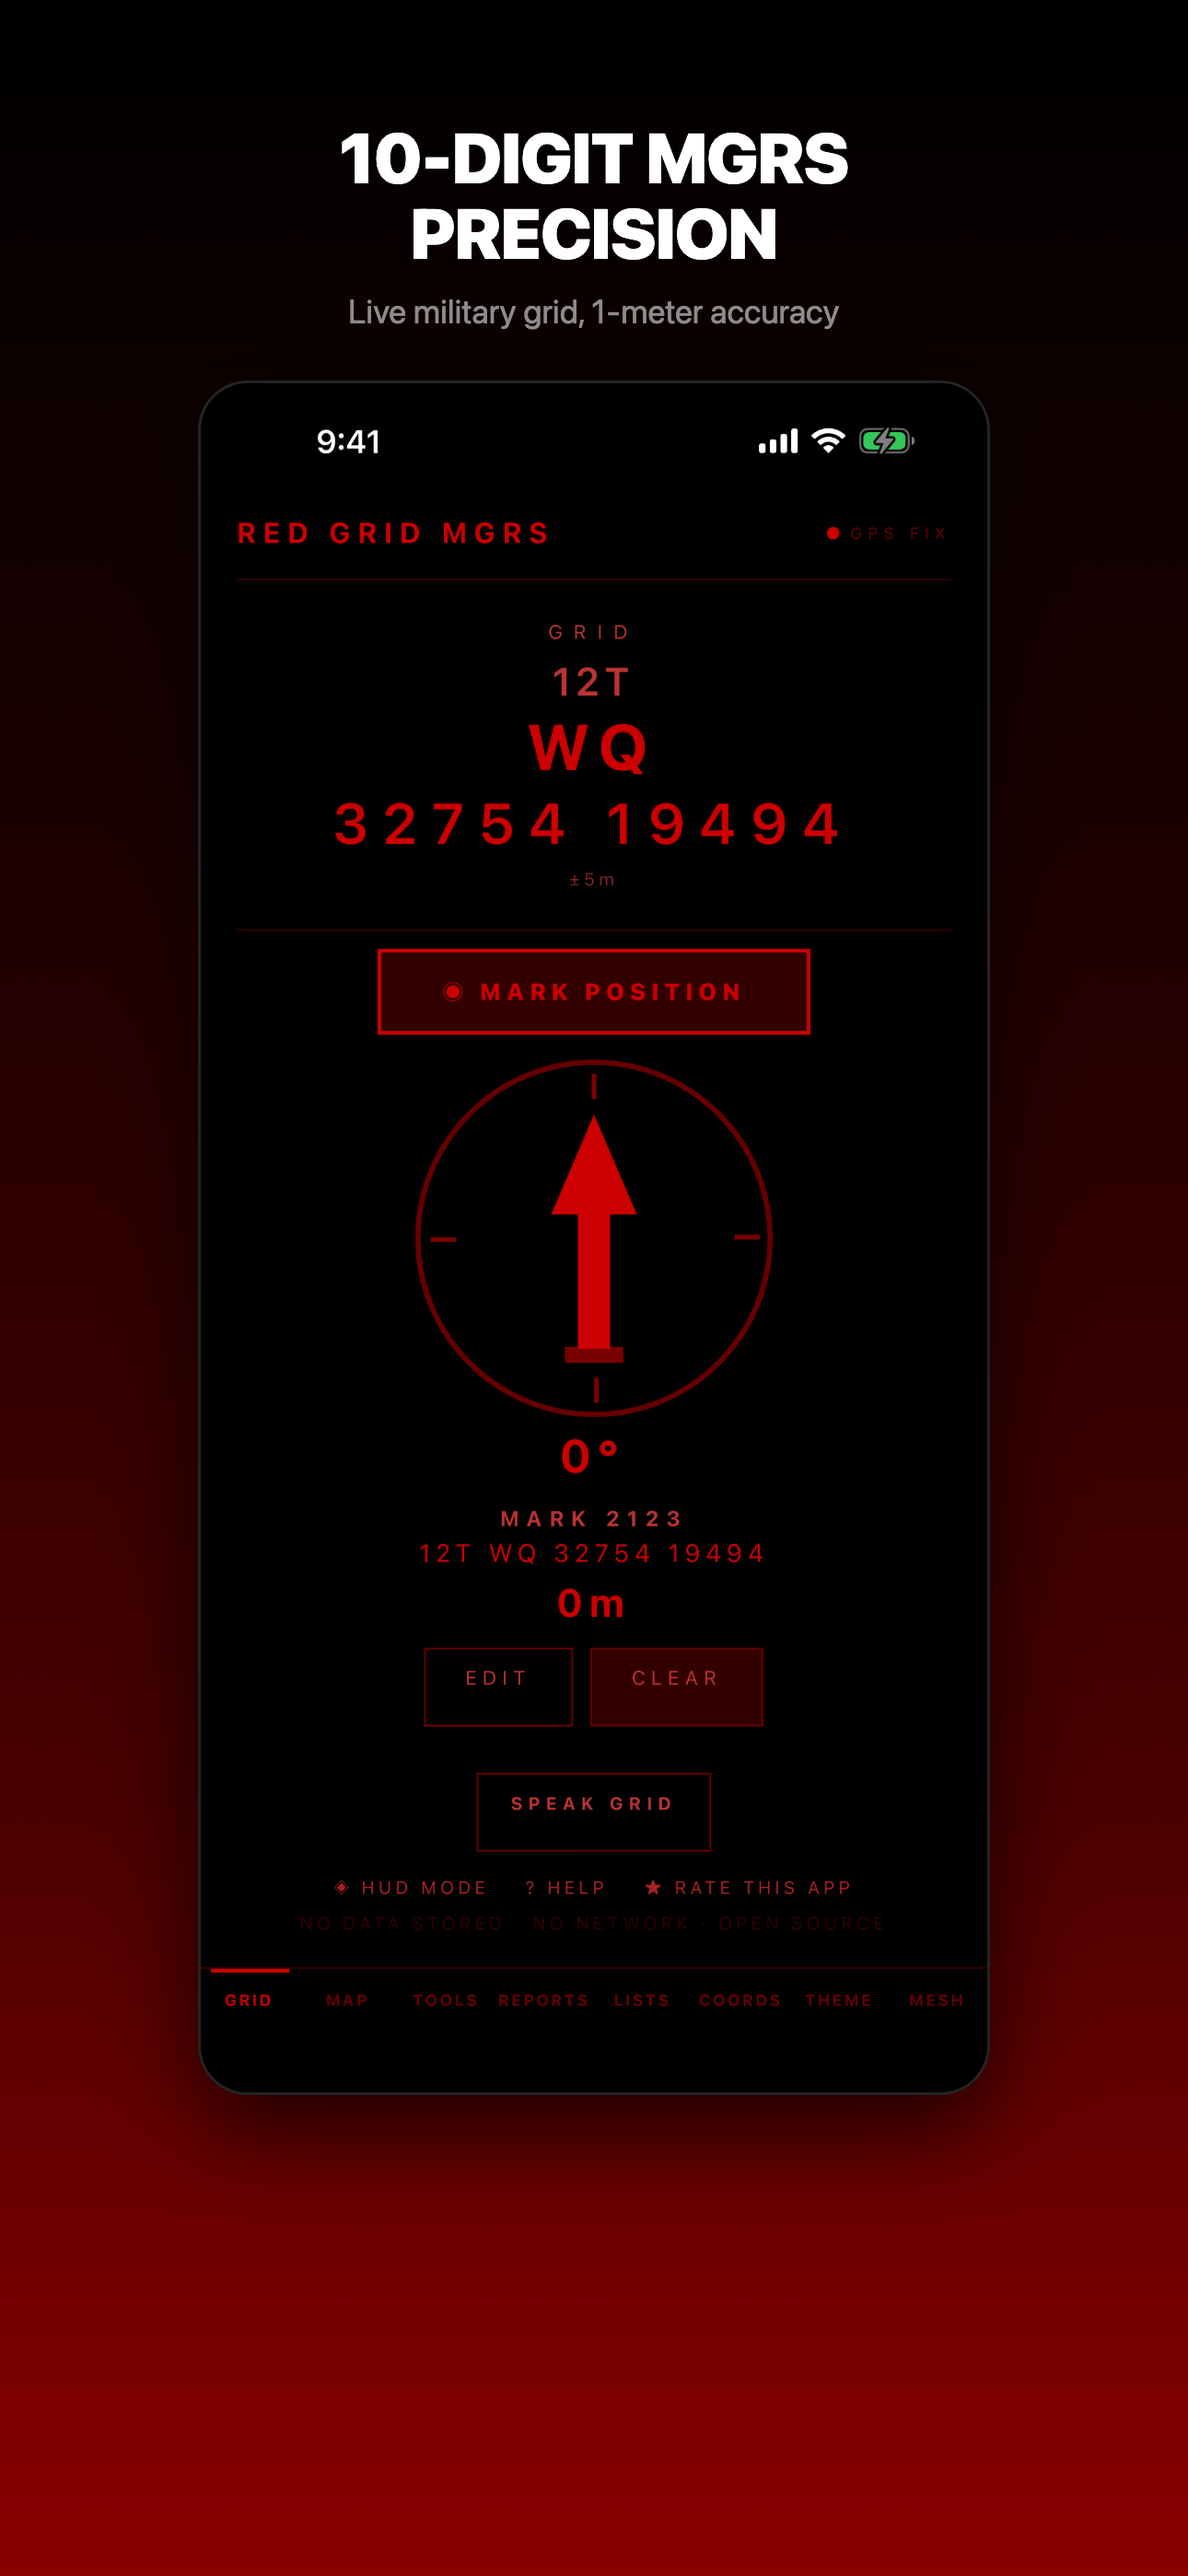
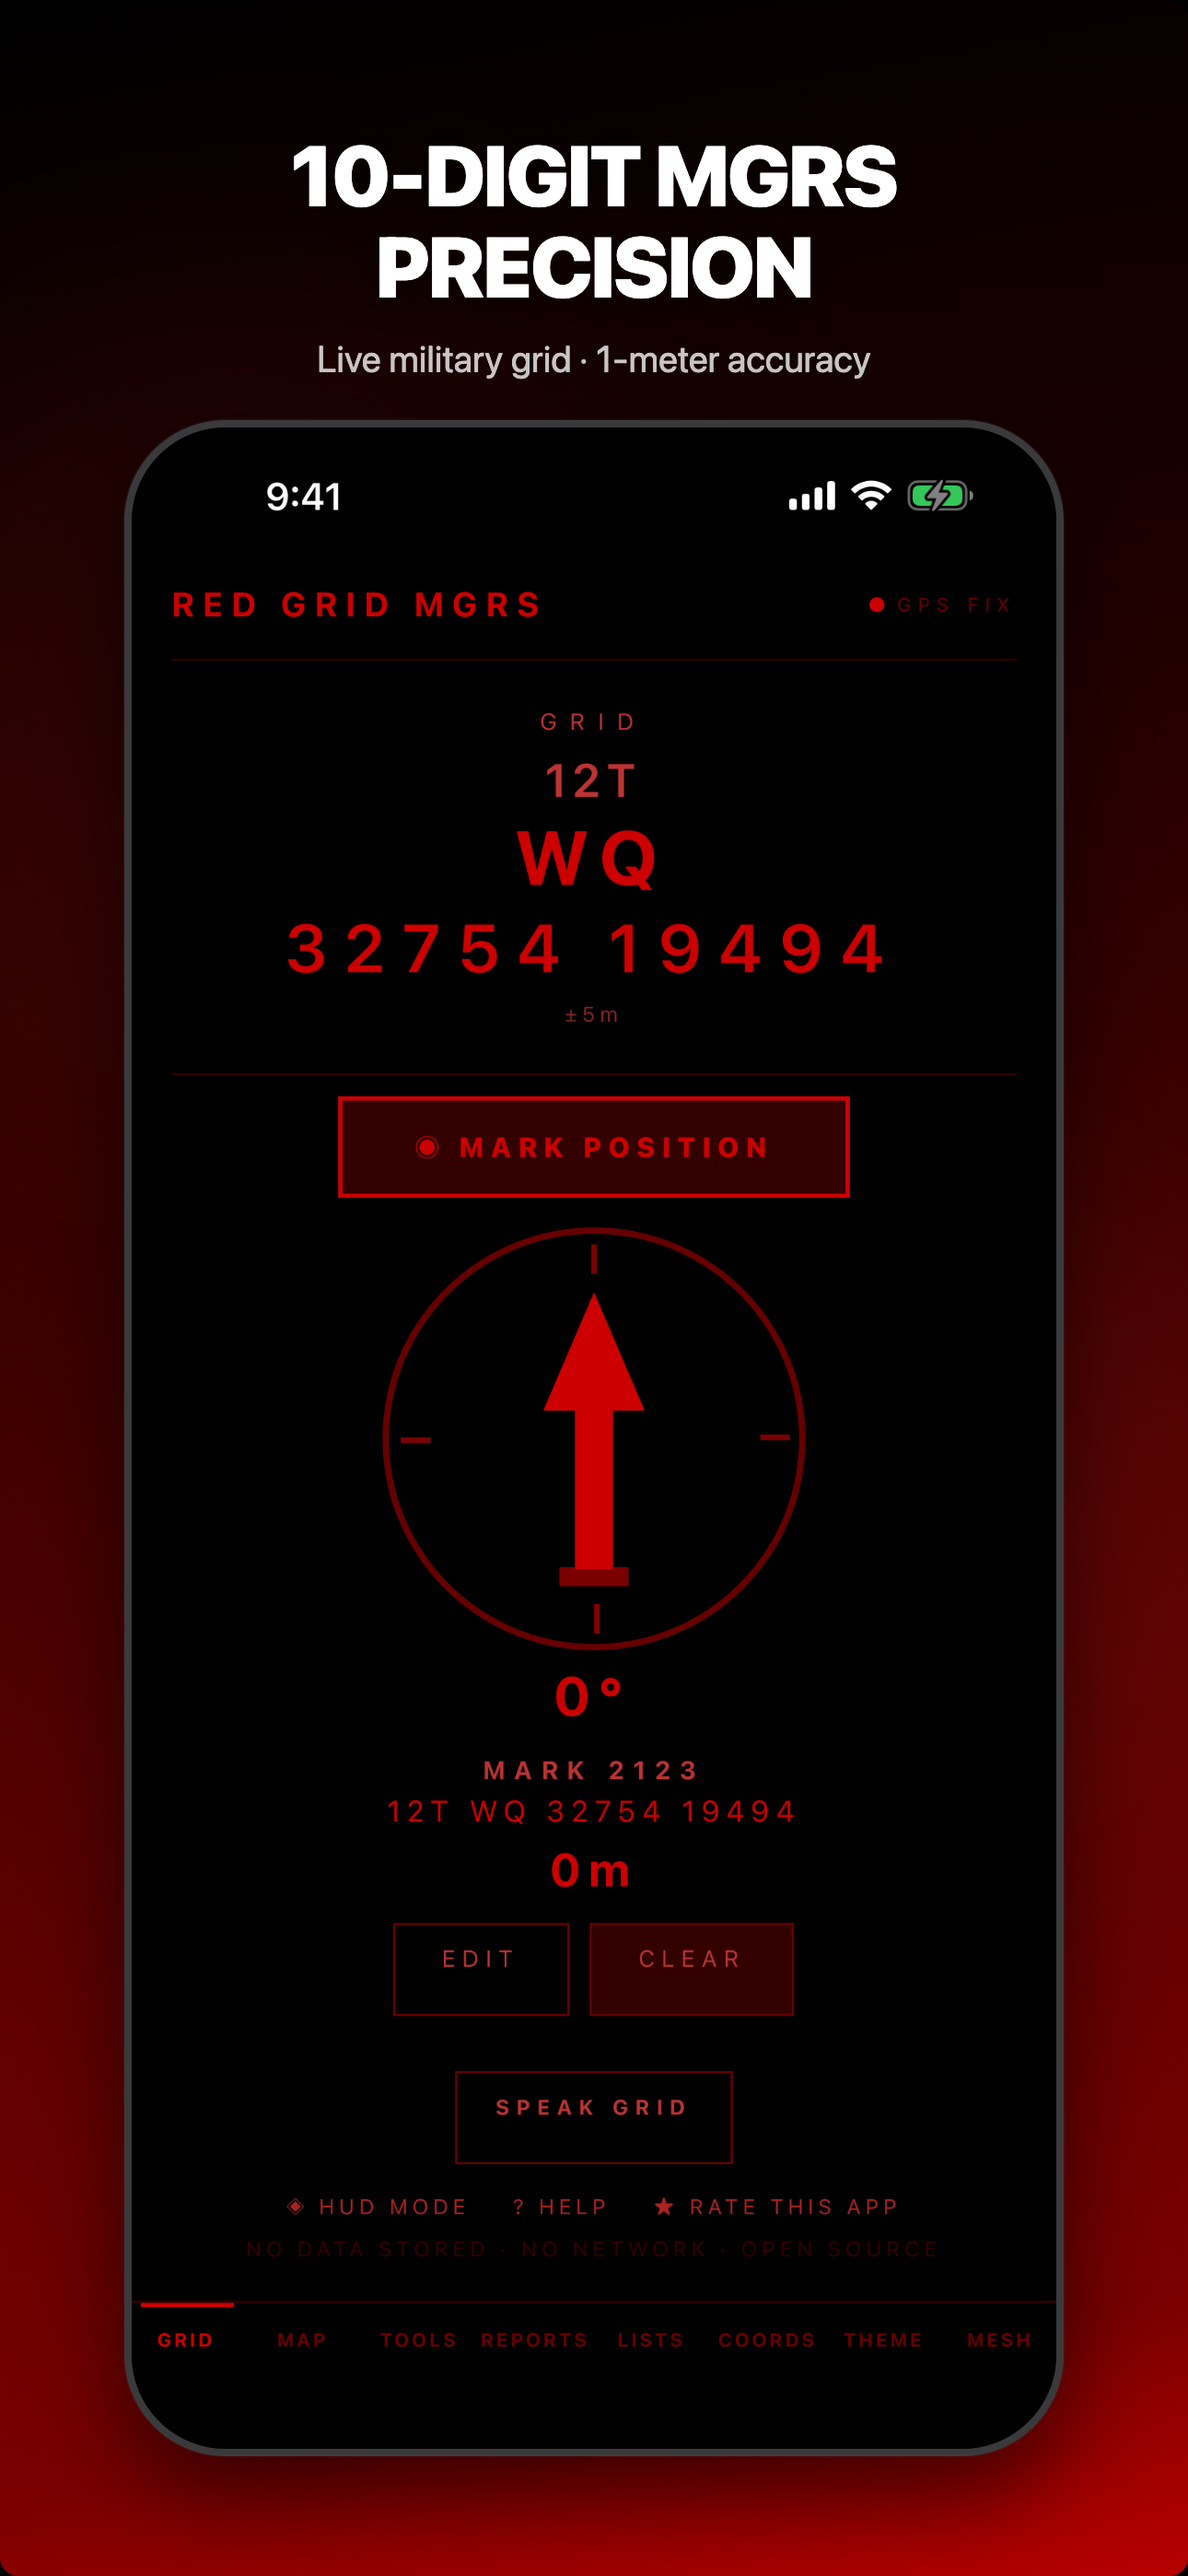
screenshots: larger phone mockups for App Store frames
- composite.html: bump phone frame to 1020x2210 (Just Start proportions) with 110px corners, bolder 92px headline, tactical red/green/blue gradients and ambient glow layers.
- docs/images: refresh with new composited 6.7" frames (screenshot_1..6).
- screenshots/output: regenerate iOS + Android sets.
- ASC v3.3.2 screenshots replaced via asc-upload-screenshots.js and resubmitted for review.

diff --git a/screenshots/composite.html b/screenshots/composite.html
@@ -22,60 +22,100 @@
     flex-shrink: 0;
     position: relative;
     overflow: hidden;
+    border-radius: 20px;
     display: flex;
     flex-direction: column;
     align-items: center;
-    justify-content: flex-start;
   }
 
-  /* Red Grid style: deep dark red gradients — matching Red Grid Link mockups */
-  .frame-red    { background: linear-gradient(180deg, #000000 0%, #1a0000 30%, #4a0000 70%, #8B0000 100%); }
-  .frame-green  { background: linear-gradient(180deg, #000000 0%, #001a00 30%, #003300 70%, #006600 100%); }
-  .frame-blue   { background: linear-gradient(180deg, #000000 0%, #00001a 30%, #000044 70%, #000088 100%); }
-  .frame-white  { background: linear-gradient(180deg, #1a1a1a 0%, #2a2a2a 30%, #3a3a3a 70%, #555555 100%); }
+  /* Red Grid tactical gradients — deep to blood red, NVG green, OLED blue */
+  .frame-red    { background: linear-gradient(170deg, #000000 0%, #1a0000 25%, #7A0000 90%, #B80000 100%); }
+  .frame-green  { background: linear-gradient(170deg, #000000 0%, #001505 25%, #004410 90%, #007A1A 100%); }
+  .frame-blue   { background: linear-gradient(170deg, #000000 0%, #00001F 25%, #00005C 90%, #0011AA 100%); }
+  .frame-mixed  { background: linear-gradient(170deg, #000000 0%, #1a0000 25%, #7A0000 85%, #4A0000 100%); }
 
-  /* Headline */
+  /* Ambient glow shapes */
+  .frame::before {
+    content: '';
+    position: absolute;
+    width: 900px;
+    height: 900px;
+    border-radius: 50%;
+    opacity: 0.08;
+    top: 350px;
+    left: -200px;
+    background: #FF2020;
+    filter: blur(150px);
+    pointer-events: none;
+  }
+  .frame::after {
+    content: '';
+    position: absolute;
+    width: 700px;
+    height: 700px;
+    border-radius: 50%;
+    opacity: 0.06;
+    bottom: 800px;
+    right: -100px;
+    background: #FF4040;
+    filter: blur(120px);
+    pointer-events: none;
+  }
+  .frame-green::before { background: #20FF40; }
+  .frame-green::after  { background: #40FF60; }
+  .frame-blue::before  { background: #2040FF; }
+  .frame-blue::after   { background: #4060FF; }
+
+  /* Headline text */
   .headline {
     position: relative;
     z-index: 2;
-    font-size: 76px;
+    font-size: 92px;
     font-weight: 900;
     color: #ffffff;
     text-align: center;
     line-height: 1.08;
-    letter-spacing: -1px;
-    max-width: 1100px;
-    padding: 130px 60px 0;
+    letter-spacing: -2px;
+    max-width: 1160px;
+    padding: 140px 60px 0;
+    text-shadow: 0 4px 40px rgba(0,0,0,0.5);
     text-transform: uppercase;
   }
 
   .subtitle {
     position: relative;
     z-index: 2;
-    font-size: 36px;
+    font-size: 40px;
     font-weight: 400;
-    color: rgba(255,255,255,0.55);
+    color: rgba(255,255,255,0.78);
     text-align: center;
-    margin-top: 20px;
-    max-width: 1000px;
-    line-height: 1.35;
+    margin-top: 22px;
+    max-width: 1080px;
+    line-height: 1.38;
     padding: 0 60px;
   }
 
-  /* Phone mockup — dark bezel, matching Link style */
+  /* Phone mockup — Just Start proportions (1020x2210 in 1290x2796 frame) */
   .phone {
     position: relative;
     z-index: 2;
-    margin-top: 50px;
-    width: 860px;
-    border-radius: 54px;
+    margin-top: 40px;
+    width: 1020px;
+    height: 2210px;
+    background: #1C1C1E;
+    border-radius: 110px;
+    border: 8px solid #3a3a3c;
     overflow: hidden;
-    background: #111;
-    border: 3px solid rgba(255,255,255,0.08);
-    box-shadow: 0 40px 100px rgba(0,0,0,0.7);
+    box-shadow:
+      0 40px 100px rgba(0,0,0,0.6),
+      0 0 0 1.5px rgba(255,255,255,0.05);
+    flex-shrink: 0;
   }
+
   .phone img {
     width: 100%;
+    height: 100%;
+    object-fit: cover;
     display: block;
   }
 </style>
@@ -84,58 +124,58 @@
 
 <!-- 01: GRID tab — Red theme -->
 <div class="frame frame-red">
-  <div class="headline">10-DIGIT MGRS<br>PRECISION</div>
-  <div class="subtitle">Live military grid, 1-meter accuracy</div>
-  <div class="phone"><img src="raw/01_grid.png"></div>
+  <div class="headline">10-Digit MGRS<br>Precision</div>
+  <div class="subtitle">Live military grid · 1-meter accuracy</div>
+  <div class="phone"><img src="raw/01_grid.png" alt="Live MGRS grid"></div>
 </div>
 
-<!-- 02: MAP tab — Red theme -->
-<div class="frame frame-red">
-  <div class="headline">OFFLINE<br>TACTICAL MAPS</div>
-  <div class="subtitle">3 map styles · MGRS grid overlay</div>
-  <div class="phone"><img src="raw/02_map.png"></div>
+<!-- 02: MAP tab — mixed red theme — mesh positions visible -->
+<div class="frame frame-mixed">
+  <div class="headline">Offline<br>Tactical Maps</div>
+  <div class="subtitle">Dark tiles · MGRS overlay · mesh positions</div>
+  <div class="phone"><img src="raw/02_map.png" alt="Offline tactical maps with mesh nodes"></div>
 </div>
 
 <!-- 03: TOOLS tab — NVG Green theme -->
 <div class="frame frame-green">
-  <div class="headline">10 TACTICAL<br>TOOLS</div>
+  <div class="headline">10 Tactical<br>Tools</div>
   <div class="subtitle">Dead reckoning · resection · pace count</div>
-  <div class="phone"><img src="raw/03_tools.png"></div>
+  <div class="phone"><img src="raw/03_tools.png" alt="10 tactical tools"></div>
 </div>
 
 <!-- 04: REPORTS tab — Blue theme -->
 <div class="frame frame-blue">
-  <div class="headline">RADIO-READY<br>REPORTS</div>
+  <div class="headline">Radio-Ready<br>Reports</div>
   <div class="subtitle">SALUTE · 9-Line MEDEVAC · SPOT · CFF</div>
-  <div class="phone"><img src="raw/04_reports.png"></div>
+  <div class="phone"><img src="raw/04_reports.png" alt="Radio-ready reports"></div>
 </div>
 
 <!-- 05: LISTS — Red theme -->
 <div class="frame frame-red">
-  <div class="headline">MARK POSITION.<br>ONE TAP.</div>
+  <div class="headline">Mark Position.<br>One Tap.</div>
   <div class="subtitle">Waypoints · GPX/KML · mission planning</div>
-  <div class="phone"><img src="raw/05_lists.png"></div>
+  <div class="phone"><img src="raw/05_lists.png" alt="Waypoint lists and mission planning"></div>
 </div>
 
 <!-- 06: COORDS — Red theme -->
 <div class="frame frame-red">
-  <div class="headline">5 COORDINATE<br>FORMATS</div>
+  <div class="headline">5 Coordinate<br>Formats</div>
   <div class="subtitle">MGRS · UTM · DD · DMS · FixPhrase</div>
-  <div class="phone"><img src="raw/06_coords.png"></div>
+  <div class="phone"><img src="raw/06_coords.png" alt="Five coordinate formats"></div>
 </div>
 
 <!-- 07: THEMES — Red theme -->
 <div class="frame frame-red">
-  <div class="headline">4 TACTICAL<br>DISPLAY THEMES</div>
+  <div class="headline">4 Tactical<br>Display Themes</div>
   <div class="subtitle">Red · NVG Green · Day White · Blue</div>
-  <div class="phone"><img src="raw/07_themes.png"></div>
+  <div class="phone"><img src="raw/07_themes.png" alt="Four tactical themes"></div>
 </div>
 
-<!-- 08: MESH — Red theme -->
-<div class="frame frame-red">
-  <div class="headline">MESHTASTIC<br>MESH NETWORK</div>
+<!-- 08: MESH — mixed red theme -->
+<div class="frame frame-mixed">
+  <div class="headline">Meshtastic<br>Mesh Network</div>
   <div class="subtitle">See your team on the map · no cell needed</div>
-  <div class="phone"><img src="raw/08_mesh.png"></div>
+  <div class="phone"><img src="raw/08_mesh.png" alt="Meshtastic mesh network"></div>
 </div>
 
 </body>
